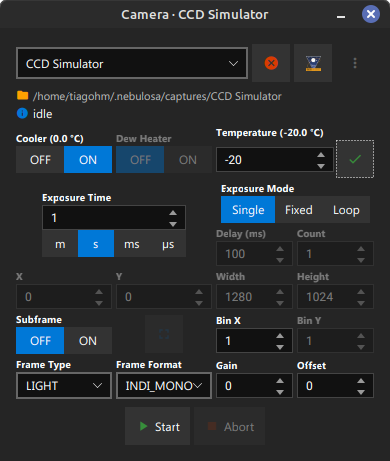
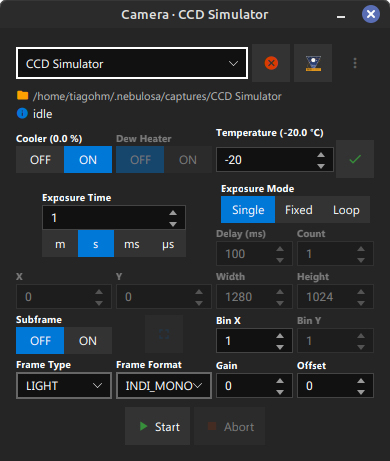
Update

Changed region(s): [[0.0308, 0.0911, 0.6462, 0.1822], [0.1846, 0.2733, 0.2154, 0.3341], [0.8615, 0.3037, 0.8923, 0.3341]]

diff --git a/desktop/src/main/kotlin/nebulosa/desktop/gui/camera/CameraWindow.kt b/desktop/src/main/kotlin/nebulosa/desktop/gui/camera/CameraWindow.kt
@@ -100,7 +100,7 @@ class CameraWindow : AbstractWindow("Camera", "camera"), CameraView {
             .filter { it.userData == "BIND_TO_SELECTED_CAMERA" }
             .forEach { it.disableProperty().bind(isNotConnectedOrCapturing) }
 
-        coolerPowerLabel.textProperty.bind(cameraManager.coolerPowerProperty.asString(Locale.ENGLISH, "Cooler (%.1f %)"))
+        coolerPowerLabel.textProperty.bind(cameraManager.coolerPowerProperty.asString(Locale.ENGLISH, "Cooler (%.1f %%)"))
         coolerSwitch.disableProperty().bind(isNotConnectedOrCapturing or !cameraManager.hasCoolerProperty)
         cameraManager.coolerProperty.on { coolerSwitch.state = it }
         coolerSwitch.stateProperty.on { cameraManager.get().cooler(it) }
